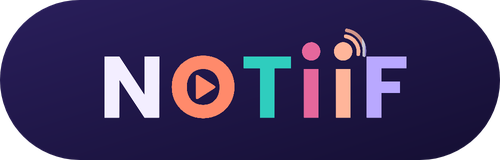
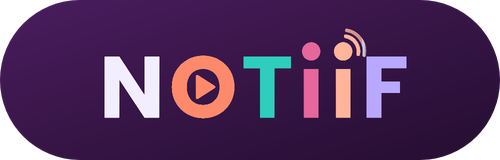
Icônes et nom NOTIIF qui suivent la couleur choisie, en clair et en sombre (v74)
Claude-Session: https://claude.ai/code/session_01HwPAuCduVsBrXG3mJiFBf5

diff --git a/nidami/src/styles.css b/nidami/src/styles.css
@@ -271,7 +271,7 @@ html.moving .bottom{opacity:0;transform:translateY(120%);pointer-events:none}
 html.moving .bfab{opacity:0;pointer-events:none}
 
 /* ===== Style bulles de BD ===== */
-:root{--ink:#04141a;--shade:var(--brand);--accb:#9B87F5;--accb-rgb:155,135,245}
+:root{--ink:#04141a;--shade:var(--brand);--accb:#9B87F5;--accb-rgb:155,135,245;--nuit:#2A1F5C}
 [data-theme=light]{--ink:#2A2150}
 .avs{display:inline-block;flex:none;line-height:0;filter:drop-shadow(2px 2px 0 var(--shade))}
 .avs svg{display:block;overflow:visible}
@@ -463,25 +463,32 @@ img,canvas,video,svg image{-webkit-touch-callout:none;-webkit-user-drag:none}
 img,canvas,.wreath,.avs{user-select:none;-webkit-user-select:none}
 
 /* Couleurs de l'appli (9 thèmes) : lavande par défaut, définie plus haut */
-html[data-accent=turquoise]{--bg:#0B1A21;--bg2:#112731;--brand:#2FCDBE;--brand2:#38BDF8;--brand-rgb:47,205,190;--brand2-rgb:56,189,248;--on:#04221A;--fg:#EAF5F4;--mute:#9BB5B3;--accb:#2FCDBE;--accb-rgb:47,205,190}
+html[data-accent=turquoise]{--bg:#0B1A21;--bg2:#112731;--brand:#2FCDBE;--brand2:#38BDF8;--brand-rgb:47,205,190;--brand2-rgb:56,189,248;--on:#04221A;--fg:#EAF5F4;--mute:#9BB5B3;--accb:#2FCDBE;--accb-rgb:47,205,190;--nuit:#0E4A4F}
 html[data-accent=turquoise][data-theme=light]{--bg:#EEF9F7;--bg2:#D3EFEA;--card:#DDF3F0;--card2:#F1FBF9;--bd:rgba(10,131,139,.28);--fg:#0B1F26;--mute:#46606A;--on:#fff;--brand:#0A838B;--brand-rgb:10,131,139;--brand2:#0E7FA6;--brand2-rgb:14,127,166;--ink:#0B1F26}
-html[data-accent=corail]{--bg:#1A1216;--bg2:#2A1B22;--brand:#FF8A6B;--brand2:#FFB59A;--brand-rgb:255,138,107;--brand2-rgb:255,181,154;--on:#2B0F08;--fg:#F5EDEA;--mute:#B5A19B;--accb:#FF8A6B;--accb-rgb:255,138,107}
+html[data-accent=corail]{--bg:#1A1216;--bg2:#2A1B22;--brand:#FF8A6B;--brand2:#FFB59A;--brand-rgb:255,138,107;--brand2-rgb:255,181,154;--on:#2B0F08;--fg:#F5EDEA;--mute:#B5A19B;--accb:#FF8A6B;--accb-rgb:255,138,107;--nuit:#5A2A24}
 html[data-accent=corail][data-theme=light]{--bg:#FCF1EE;--bg2:#F5DDD6;--card:#F8E7E2;--card2:#FDF8F6;--bd:rgba(190,75,45,.28);--fg:#2C1711;--mute:#664E47;--on:#fff;--brand:#BE4B2D;--brand-rgb:190,75,45;--brand2:#CA7E2F;--brand2-rgb:202,126,47;--ink:#2C1711}
-html[data-accent=lavande]{--bg:#120F1F;--bg2:#1D1833;--brand:#9B87F5;--brand2:#C9B8FF;--brand-rgb:155,135,245;--brand2-rgb:201,184,255;--on:#150C3A;--fg:#ECEAF5;--mute:#A09BB5;--accb:#9B87F5;--accb-rgb:155,135,245}
+html[data-accent=lavande]{--bg:#120F1F;--bg2:#1D1833;--brand:#9B87F5;--brand2:#C9B8FF;--brand-rgb:155,135,245;--brand2-rgb:201,184,255;--on:#150C3A;--fg:#ECEAF5;--mute:#A09BB5;--accb:#9B87F5;--accb-rgb:155,135,245;--nuit:#2A1F5C}
 html[data-accent=lavande][data-theme=light]{--bg:#F5F2FF;--bg2:#E6E0FF;--card:#ECE7FF;--card2:#FBFAFF;--bd:rgba(122,99,228,.28);--fg:#241D45;--mute:#645C8A;--on:#fff;--brand:#7A63E4;--brand-rgb:122,99,228;--brand2:#A46BDB;--brand2-rgb:164,107,219;--ink:#2A2150}
-html[data-accent=framboise]{--bg:#171018;--bg2:#26172A;--brand:#E5679C;--brand2:#F5A3C7;--brand-rgb:229,103,156;--brand2-rgb:245,163,199;--on:#3A0A1F;--fg:#F5EAEF;--mute:#B59BA6;--accb:#E5679C;--accb-rgb:229,103,156}
+html[data-accent=framboise]{--bg:#171018;--bg2:#26172A;--brand:#E5679C;--brand2:#F5A3C7;--brand-rgb:229,103,156;--brand2-rgb:245,163,199;--on:#3A0A1F;--fg:#F5EAEF;--mute:#B59BA6;--accb:#E5679C;--accb-rgb:229,103,156;--nuit:#5A1F3D}
 html[data-accent=framboise][data-theme=light]{--bg:#FCEEF4;--bg2:#F5D6E3;--card:#F8E2EB;--card2:#FDF6F9;--bd:rgba(194,46,108,.28);--fg:#2C111C;--mute:#664754;--on:#fff;--brand:#C22E6C;--brand-rgb:194,46,108;--brand2:#CF3044;--brand2-rgb:207,48,68;--ink:#2C111C}
-html[data-accent=citron]{--bg:#0F1608;--bg2:#1A260F;--brand:#A8E05F;--brand2:#D2F5A0;--brand-rgb:168,224,95;--brand2-rgb:210,245,160;--on:#142203;--fg:#F0F5EA;--mute:#AAB59B;--accb:#A8E05F;--accb-rgb:168,224,95}
+html[data-accent=citron]{--bg:#0F1608;--bg2:#1A260F;--brand:#A8E05F;--brand2:#D2F5A0;--brand-rgb:168,224,95;--brand2-rgb:210,245,160;--on:#142203;--fg:#F0F5EA;--mute:#AAB59B;--accb:#A8E05F;--accb-rgb:168,224,95;--nuit:#35501A}
 html[data-accent=citron][data-theme=light]{--bg:#F6FCEE;--bg2:#E8F5D6;--card:#EFF8E2;--card2:#FAFDF6;--bd:rgba(86,128,30,.28);--fg:#202C11;--mute:#596647;--on:#fff;--brand:#56801E;--brand-rgb:86,128,30;--brand2:#3E8C21;--brand2-rgb:62,140,33;--ink:#202C11}
-html[data-accent=miel]{--bg:#1A150B;--bg2:#2A2212;--brand:#F2C45A;--brand2:#FFE29A;--brand-rgb:242,196,90;--brand2-rgb:255,226,154;--on:#3A2A02;--fg:#F5F2EA;--mute:#B5AD9B;--accb:#F2C45A;--accb-rgb:242,196,90}
+html[data-accent=miel]{--bg:#1A150B;--bg2:#2A2212;--brand:#F2C45A;--brand2:#FFE29A;--brand-rgb:242,196,90;--brand2-rgb:255,226,154;--on:#3A2A02;--fg:#F5F2EA;--mute:#B5AD9B;--accb:#F2C45A;--accb-rgb:242,196,90;--nuit:#55421A}
 html[data-accent=miel][data-theme=light]{--bg:#FCF8EE;--bg2:#F5ECD6;--card:#F8F1E2;--card2:#FDFBF6;--bd:rgba(136,105,32,.28);--fg:#2C2411;--mute:#665D47;--on:#fff;--brand:#886920;--brand-rgb:136,105,32;--brand2:#959423;--brand2-rgb:149,148,35;--ink:#2C2411}
-html[data-accent=azur]{--bg:#0A1822;--bg2:#10293A;--brand:#38B6FF;--brand2:#9CDCFF;--brand-rgb:56,182,255;--brand2-rgb:156,220,255;--on:#032338;--fg:#EAF1F5;--mute:#9BACB5;--accb:#38B6FF;--accb-rgb:56,182,255}
+html[data-accent=azur]{--bg:#0A1822;--bg2:#10293A;--brand:#38B6FF;--brand2:#9CDCFF;--brand-rgb:56,182,255;--brand2-rgb:156,220,255;--on:#032338;--fg:#EAF1F5;--mute:#9BACB5;--accb:#38B6FF;--accb-rgb:56,182,255;--nuit:#14456A}
 html[data-accent=azur][data-theme=light]{--bg:#EEF7FC;--bg2:#D6EAF5;--card:#E2F0F8;--card2:#F6FBFD;--bd:rgba(39,119,165,.28);--fg:#11222C;--mute:#475B66;--on:#fff;--brand:#2777A5;--brand-rgb:39,119,165;--brand2:#2A57B2;--brand2-rgb:42,87,178;--ink:#11222C}
-html[data-accent=ocean]{--bg:#0A1226;--bg2:#112044;--brand:#4F7BFF;--brand2:#9DB6FF;--brand-rgb:79,123,255;--brand2-rgb:157,182,255;--on:#06143A;--fg:#EAEDF5;--mute:#9BA2B5;--accb:#4F7BFF;--accb-rgb:79,123,255}
+html[data-accent=ocean]{--bg:#0A1226;--bg2:#112044;--brand:#4F7BFF;--brand2:#9DB6FF;--brand-rgb:79,123,255;--brand2-rgb:157,182,255;--on:#06143A;--fg:#EAEDF5;--mute:#9BA2B5;--accb:#4F7BFF;--accb-rgb:79,123,255;--nuit:#1B2F6E}
 html[data-accent=ocean][data-theme=light]{--bg:#EEF1FC;--bg2:#D6DEF5;--card:#E2E8F8;--card2:#F6F8FD;--bd:rgba(47,84,198,.28);--fg:#11182C;--mute:#474F66;--on:#fff;--brand:#2F54C6;--brand-rgb:47,84,198;--brand2:#3C35D0;--brand2-rgb:60,53,208;--ink:#11182C}
-html[data-accent=orchidee]{--bg:#180D1F;--bg2:#2A1436;--brand:#C85BE8;--brand2:#E8A5F8;--brand-rgb:200,91,232;--brand2-rgb:232,165,248;--on:#2E0838;--fg:#F3EAF5;--mute:#AF9BB5;--accb:#C85BE8;--accb-rgb:200,91,232}
+html[data-accent=orchidee]{--bg:#180D1F;--bg2:#2A1436;--brand:#C85BE8;--brand2:#E8A5F8;--brand-rgb:200,91,232;--brand2-rgb:232,165,248;--on:#2E0838;--fg:#F3EAF5;--mute:#AF9BB5;--accb:#C85BE8;--accb-rgb:200,91,232;--nuit:#4A1D5E}
 html[data-accent=orchidee][data-theme=light]{--bg:#F9EEFC;--bg2:#EED6F5;--card:#F3E2F8;--card2:#FCF6FD;--bd:rgba(171,48,207,.28);--fg:#26112C;--mute:#5F4766;--on:#fff;--brand:#AB30CF;--brand-rgb:171,48,207;--brand2:#D13DC7;--brand2-rgb:209,61,199;--ink:#26112C}
 .accgrid{display:grid;grid-template-columns:repeat(3,1fr);gap:10px}
 .accbtn{border:2.5px solid transparent;border-radius:16px;padding:12px 4px;display:flex;flex-direction:column;align-items:center;gap:6px;font-weight:800;font-size:.8rem;min-height:74px;justify-content:center;text-align:center}
 .accbtn i{width:30px;height:30px;border-radius:50%;display:block}
 .accbtn.on{border-color:var(--fg);box-shadow:0 0 0 3px var(--brand)}
+
+/* Thème clair : icônes en "nuit" de la couleur choisie */
+[data-theme=light] .bottom button,[data-theme=light] .bottom button.on{color:var(--nuit)}
+[data-theme=light] .bottom button svg,[data-theme=light] .bottom button.on svg,[data-theme=light] .topr svg,[data-theme=light] .topb svg{color:var(--nuit);stroke-width:2.4}
+/* Thème sombre : icônes dans la couleur choisie */
+[data-theme=dark] .bottom button svg,[data-theme=dark] .topr svg,[data-theme=dark] .topb svg{color:var(--brand);stroke-width:2.2}
+[data-theme=dark] .bottom button{color:var(--brand2)}

diff --git a/nidami/src/ui/Social.tsx b/nidami/src/ui/Social.tsx
@@ -222,7 +222,7 @@ export function Settings({ go }: { go?: (v: any) => void }) {
     <input className="inp" placeholder={t("Chercher un réglage")} value={q} onChange={(e) => setQ(e.target.value)} aria-label={t("Chercher un réglage")} />
     {shown.map(([k, ic, a, b]) => <button key={k} type="button" className="setrow" onClick={() => (k === "profile" ? go?.("profile") : k === "legal" ? setLegal(true) : open(k))}><span className="seti">{ic}</span><span className="grow"><b>{a}</b>{b ? <small>{b}</small> : null}</span><span className="setch">›</span></button>)}
     {!shown.length && <p className="muted">{t("Aucun résultat.")}</p>}
-    <p className="muted small center" style={{ margin: "8px 0" }}>NOTIIF · v73</p>
+    <p className="muted small center" style={{ margin: "8px 0" }}>NOTIIF · v74</p>
     {legal && <Modal title={t("Documents juridiques")} onClose={() => setLegal(false)}><div style={{ textAlign: "left" }}><LegalView bare /></div></Modal>}</div>);
   return (<div className="col"><h1>{titles[sec] || t("Paramètres")}</h1>
     {sec === "install" && <>

diff --git a/nidami/public/sw.js b/nidami/public/sw.js
@@ -1,5 +1,5 @@
 // NOTIIF : fonctionne aussi sans réseau une fois ouvert une première fois.
-const C = "cercle-v73";
+const C = "cercle-v74";
 self.addEventListener("install", (e) => { self.skipWaiting(); e.waitUntil(caches.open(C).then((c) => c.addAll(["./", "./icon-192.png", "./manifest.webmanifest"]).catch(() => {}))); });
 self.addEventListener("activate", (e) => { e.waitUntil(caches.keys().then((k) => Promise.all(k.filter((x) => x !== C).map((x) => caches.delete(x)))).then(() => self.clients.claim())); });
 self.addEventListener("fetch", (e) => {
